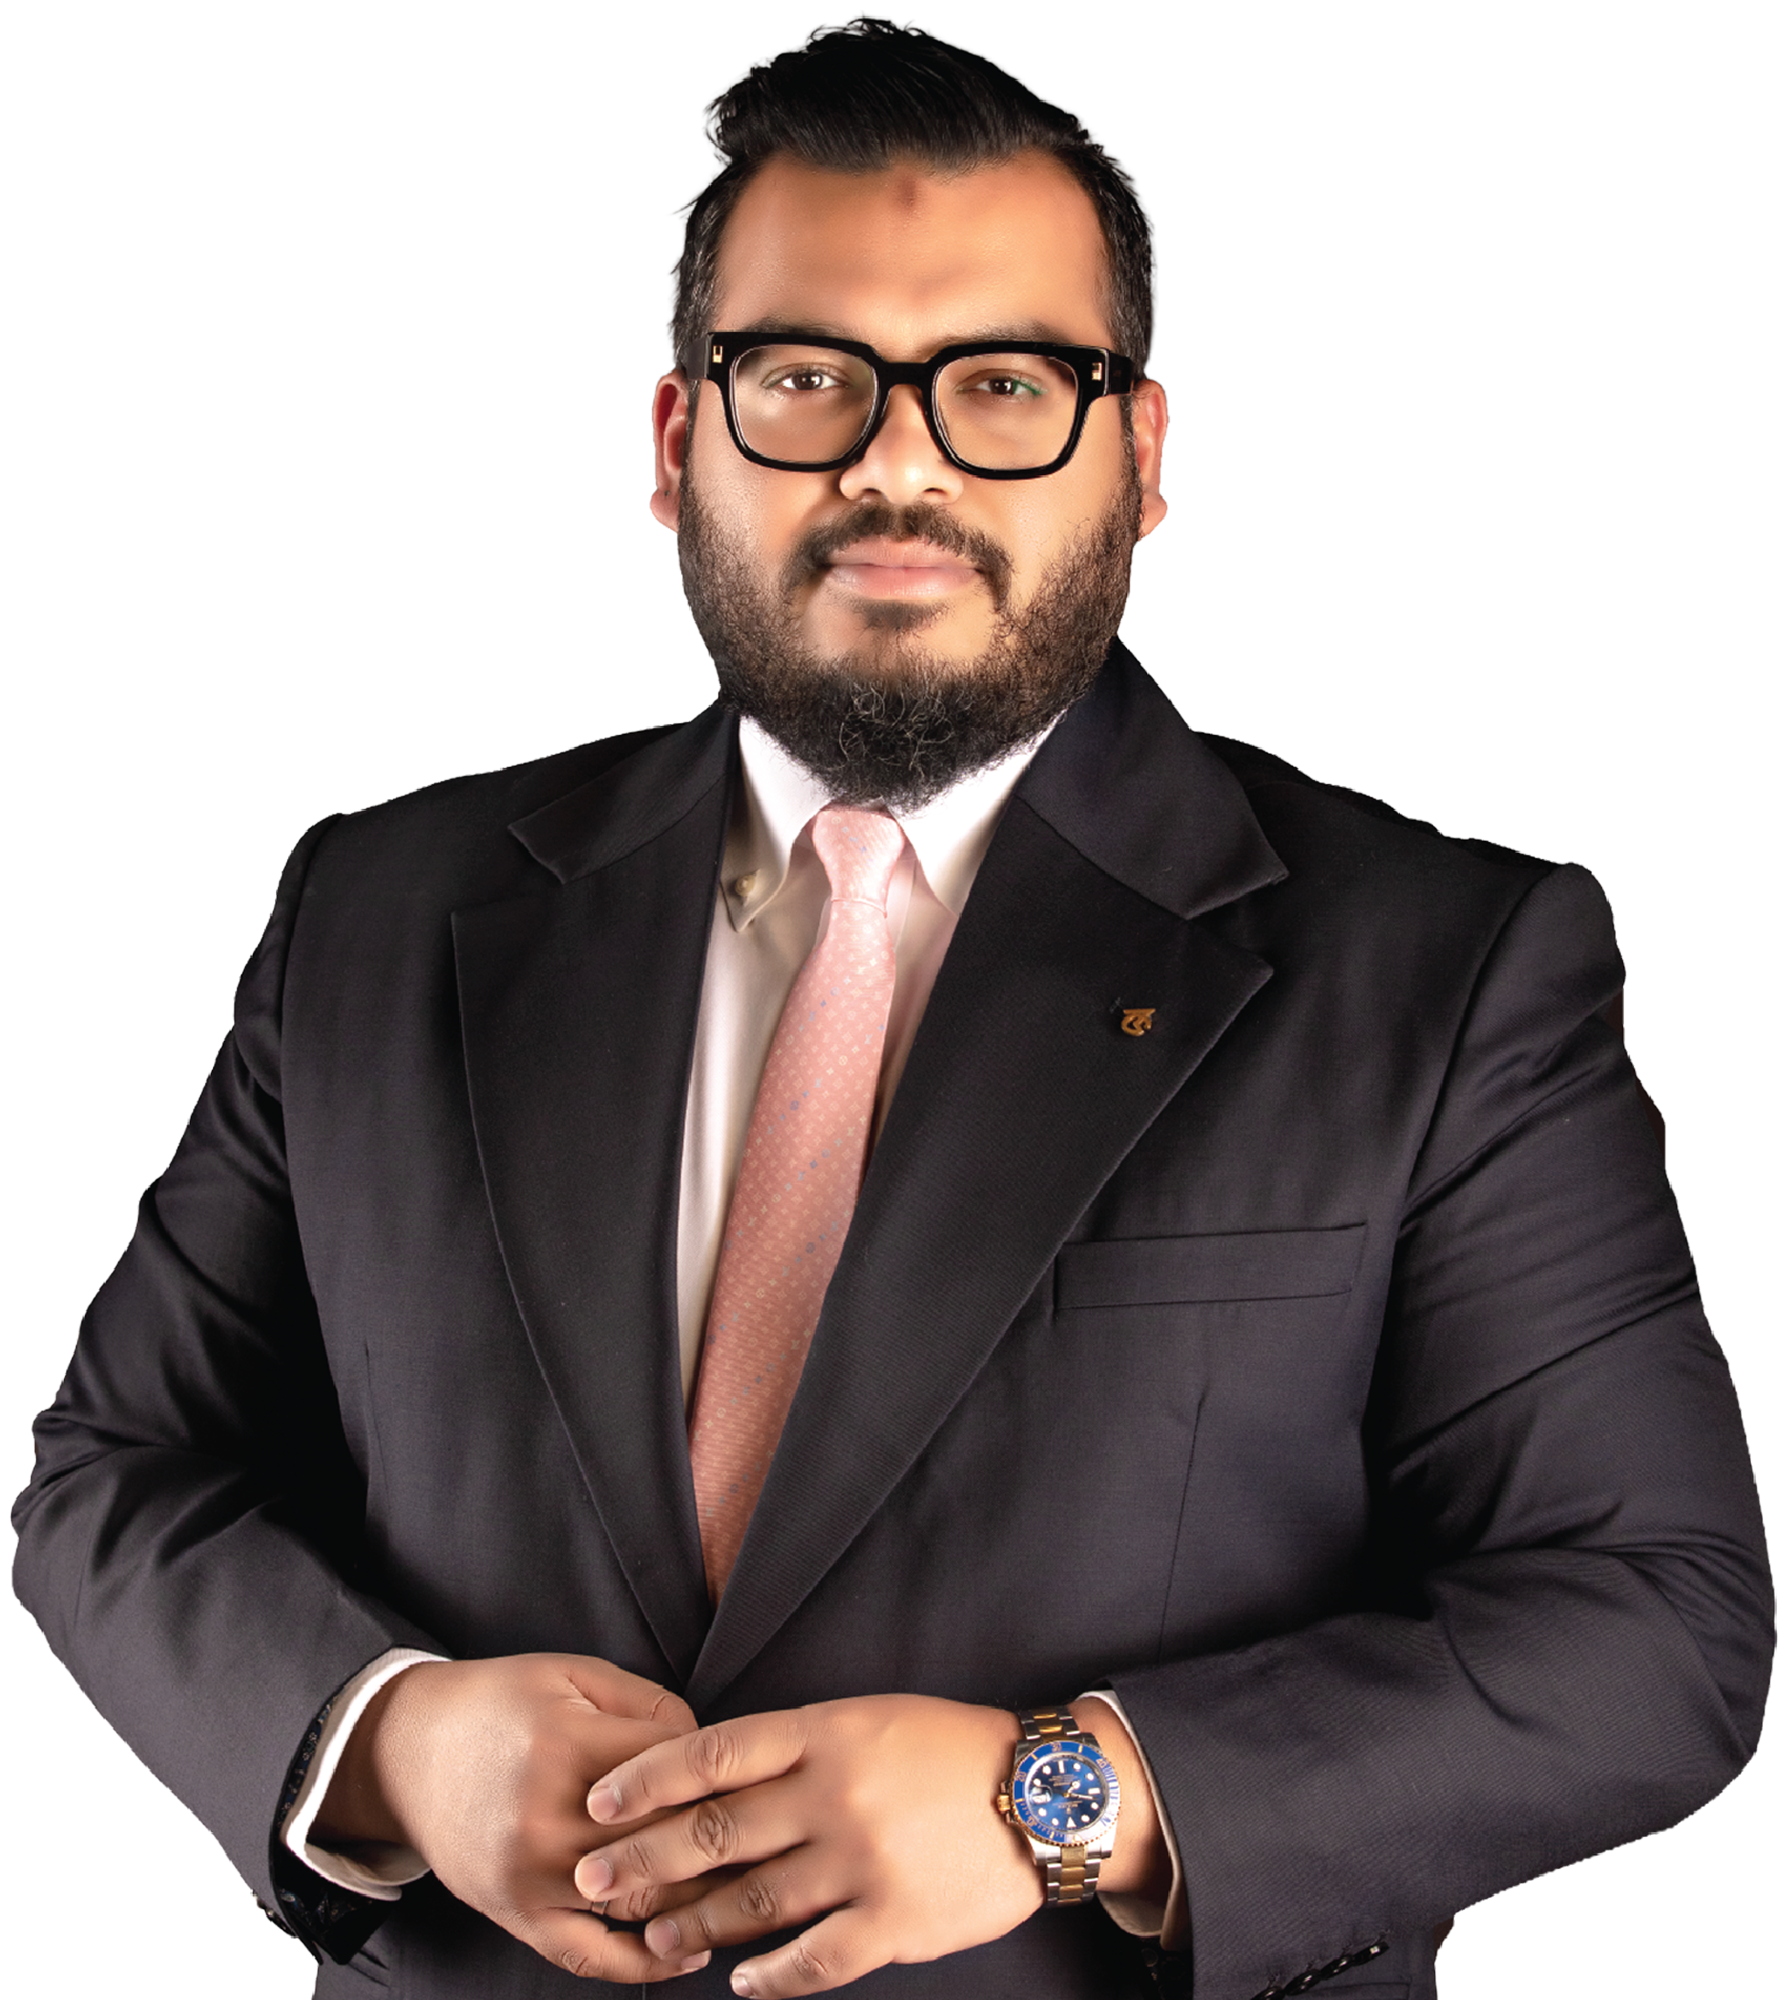
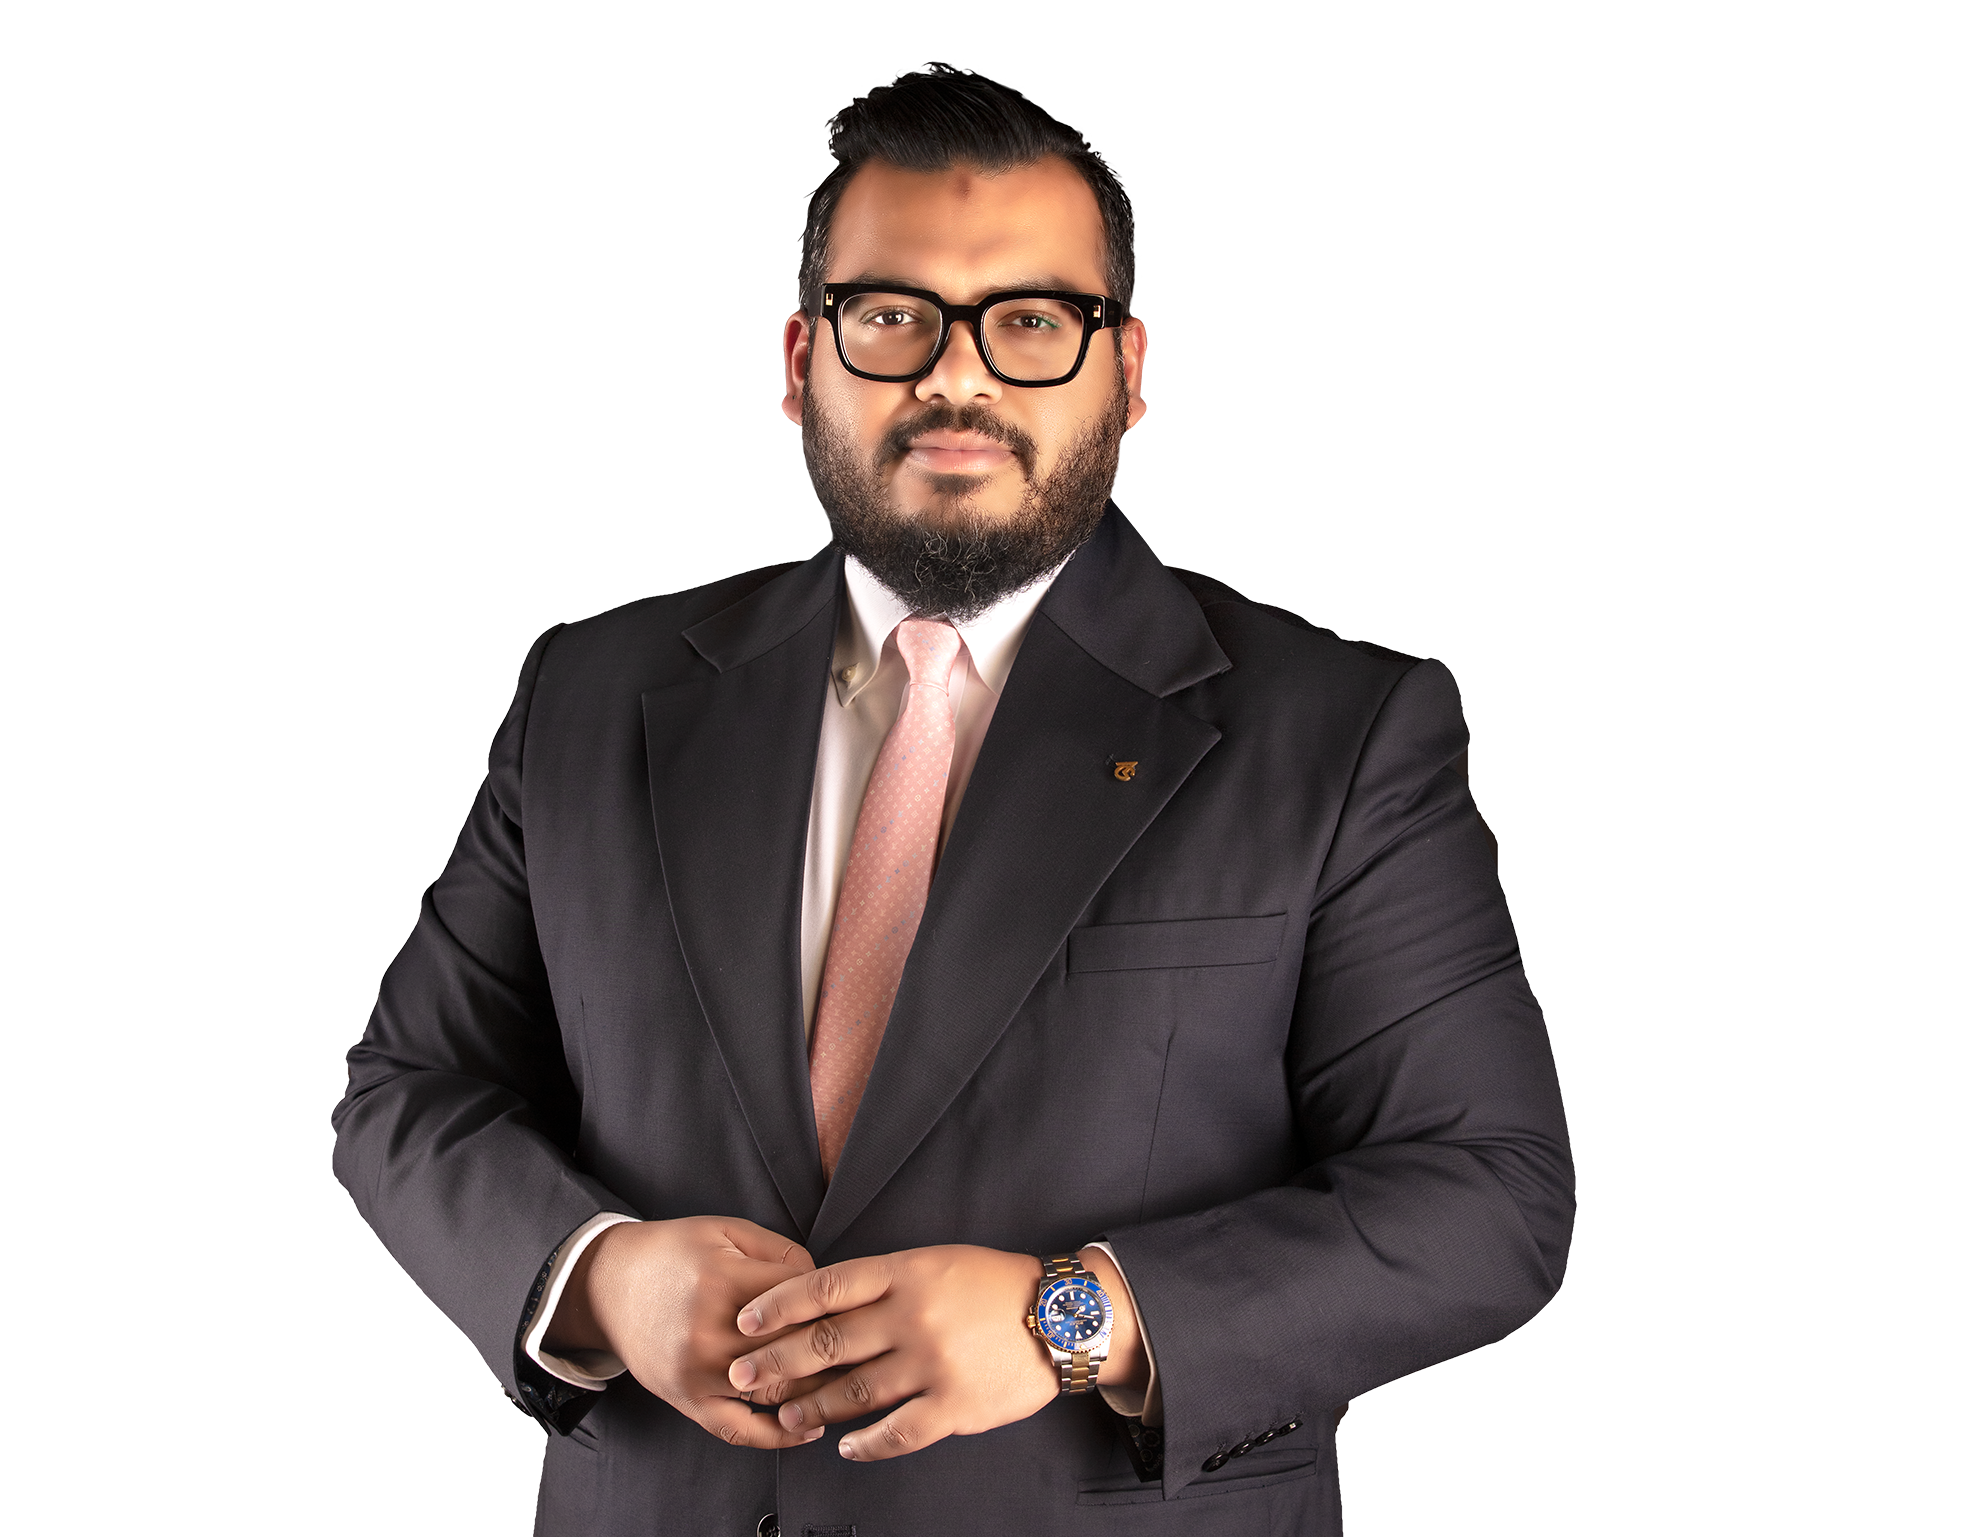
fix(board): replace board of directors images with PNG formats
- Updated chairman, managing director, and other directors' portraits to use PNG instead of WebP
- Revised background and mobile images to match new PNG format replacements
- Updated board roster and media galleries components to reference new PNG image paths
- Corrected office address in contact data
- Commented out date and category meta display in newsroom component for cleaner UI rendering

diff --git a/components/board/boardRoster.ts b/components/board/boardRoster.ts
@@ -27,43 +27,43 @@ export const boardRoster: BoardRosterMember[] = [
     slug: "chairman",
     name: "Mohammad Helal Miah",
     role: "Chairman",
-    image: "/images/board-of-directors/chairman-mobile.png",
+    image: "/images/board-of-directors/chairman.png",
   },
   {
     slug: "managing-director",
     name: "Rezaul Karim",
     role: "Director",
-    image: "/images/board-of-directors/managing-director.webp",
+    image: "/images/board-of-directors/director.png",
   },
   {
     slug: "rezawan-kabir-shihab",
     name: "Rezawan Kabir Shihab",
     role: "Director",
-    image: "/images/board-of-directors/rezawan-kabir-shihab.webp",
+    image: "/images/board-of-directors/rezawan-kabir-shihab.png",
   },
   {
     slug: "md-jubayer-amin",
     name: "Md. Jubayer Amin",
     role: "Director",
-    image: "/images/board-of-directors/md-jubayer-amin.webp",
+    image: "/images/board-of-directors/md-jubayer-amin.png",
   },
   {
     slug: "akm-azad",
     name: "Akm Azad",
     role: "Entrepreneur",
-    image: "/images/board-of-directors/akm-azad.webp",
+    image: "/images/board-of-directors/akm-azad.png",
   },
   {
     slug: "mahamudul-hasan",
     name: "Mahamudul Hasan",
     role: "Entrepreneur",
-    image: "/images/board-of-directors/mahamudul-hasan.webp",
+    image: "/images/board-of-directors/mahamudul-hasan.png",
   },
   {
     slug: "mohammad-kamrul-islam",
     name: "Mohammad Kamrul Islam",
     role: "Entrepreneur",
-    image: "/images/board-of-directors/mohammad-kamrul-islam.webp",
+    image: "/images/board-of-directors/mohammad-kamrul-islam.png",
   },
 ];
 

diff --git a/components/media-galleries/mediaGalleriesData.ts b/components/media-galleries/mediaGalleriesData.ts
@@ -109,37 +109,37 @@ export const logoCards: LogoCard[] = [
 
 export const directorCards: DirectorCard[] = [
   {
-    image: "/images/board-of-directors/chairman.webp",
+    image: "/images/board-of-directors/chairman.png",
     name: "Mohammad Helal Miah",
     title: "Chairman",
   },
   {
-    image: "/images/board-of-directors/managing-director.webp",
+    image: "/images/board-of-directors/director.png",
     name: "Rezaul Karim",
     title: "Director",
   },
   {
-    image: "/images/board-of-directors/rezawan-kabir-shihab.webp",
+    image: "/images/board-of-directors/rezawan-kabir-shihab.png",
     name: "Rezawan Kabir Shihab",
     title: "Director",
   },
   {
-    image: "/images/board-of-directors/md-jubayer-amin.webp",
+    image: "/images/board-of-directors/md-jubayer-amin.png",
     name: "Md. Jubayer Amin",
     title: "Director",
   },
   {
-    image: "/images/board-of-directors/akm-azad.webp",
+    image: "/images/board-of-directors/akm-azad.png",
     name: "Akm Azad",
     title: "Entrepreneur",
   },
   {
-    image: "/images/board-of-directors/mahamudul-hasan.webp",
+    image: "/images/board-of-directors/mahamudul-hasan.png",
     name: "Mahamudul Hasan",
     title: "Entrepreneur",
   },
   {
-    image: "/images/board-of-directors/mohammad-kamrul-islam.webp",
+    image: "/images/board-of-directors/mohammad-kamrul-islam.png",
     name: "Mohammad Kamrul Islam",
     title: "Entrepreneur",
   },

diff --git a/components/homepage/Newsroom.tsx b/components/homepage/Newsroom.tsx
@@ -226,7 +226,7 @@ export default function Newsroom() {
 
                 <div className="flex flex-col gap-2 sm:gap-1">
                   {/* Meta — date / category */}
-                  <div className="flex items-center gap-2 mt-1">
+                  {/* <div className="flex items-center gap-2 mt-1">
                     <span className="font-neue-montreal text-sm lg:text-base text-neutral-600">
                       {item.date}
                     </span>
@@ -237,7 +237,7 @@ export default function Newsroom() {
                     <span className="font-neue-montreal text-sm lg:text-base text-neutral-600">
                       {item.category}
                     </span>
-                  </div>
+                  </div> */}
 
                   {/* Title */}
                   <h3 className="max-w-full lg:max-w-[90%] font-archivo-black text-xl sm:text-2xl lg:text-3xl leading-6 sm:leading-8 text-neutral-800">

diff --git a/app/board-of-directors/page.tsx b/app/board-of-directors/page.tsx
@@ -36,7 +36,7 @@ export default function BoardOfDirectorsPage() {
         href="/board-of-directors/chairman"
         mobileBgImage="/images/board-of-directors/chairman-mobile-bg.png"
         image={{
-          src: "/images/board-of-directors/chairman sir 2026.png",
+          src: "/images/board-of-directors/chairman.png",
           width: 530,
           height: 530,
         }}
@@ -53,7 +53,7 @@ export default function BoardOfDirectorsPage() {
         bgImage="/images/board-of-directors/director-bg.png"
         mobileBgImage="/images/board-of-directors/director-mobile-bg.png"
         image={{
-          src: "/images/board-of-directors/director.webp",
+          src: "/images/board-of-directors/director.png",
           width: 530,
           height: 530,
         }}

diff --git a/components/contact-us/contactData.ts b/components/contact-us/contactData.ts
@@ -233,7 +233,7 @@ export const locationCards: Record<LocationTab, OfficeCardData[]> = {
       title: "Amanat Shah Weaving Processing Ltd",
       image: OFFICE_IMG,
       address:
-        "Bhatpara, Maijdee Road 1603, Pachdona,\nNarshingdi, Bangladesh",
+        "136, Bilashdi, Pachdona,\nNarshingdi, Bangladesh",
       phones: ["+(88)01321118231"],
       email: "",
       coordinates: { lat: 23.92675, lng: 90.712528 },

diff --git a/app/board-of-directors/mohammad-kamrul-islam/page.tsx b/app/board-of-directors/mohammad-kamrul-islam/page.tsx
@@ -29,7 +29,7 @@ export default function MohammadKamrulIslamPage() {
         role="Entrepreneur"
         org="AMANAT SHAH GROUP"
         portrait={{
-          src: "/images/board-of-directors/mohammad-kamrul-islam.webp",
+          src: "/images/board-of-directors/mohammad-kamrul-islam.png",
           width: 7236,
           height: 9771,
         }}

diff --git a/app/board-of-directors/rezawan-kabir-shihab/page.tsx b/app/board-of-directors/rezawan-kabir-shihab/page.tsx
@@ -27,7 +27,7 @@ export default function RezawanKabirShihabPage() {
         role="Director"
         org="AMANAT SHAH GROUP"
         portrait={{
-          src: "/images/board-of-directors/rezawan-kabir-shihab.webp",
+          src: "/images/board-of-directors/rezawan-kabir-shihab.png",
           width: 7236,
           height: 9848,
         }}

diff --git a/app/board-of-directors/managing-director/page.tsx b/app/board-of-directors/managing-director/page.tsx
@@ -33,7 +33,7 @@ export default function ManagingDirectorMessagePage() {
         role="Managing Director"
         org="AMANAT SHAH GROUP"
         portrait={{
-          src: "/images/board-of-directors/managing-director.webp",
+          src: "/images/board-of-directors/director.png",
           width: 1956,
           height: 2200,
         }}

diff --git a/app/board-of-directors/md-jubayer-amin/page.tsx b/app/board-of-directors/md-jubayer-amin/page.tsx
@@ -27,7 +27,7 @@ export default function MdJubayerAminPage() {
         role="Director (Miah)"
         org="AMANAT SHAH GROUP"
         portrait={{
-          src: "/images/board-of-directors/md-jubayer-amin.webp",
+          src: "/images/board-of-directors/md-jubayer-amin.png",
           width: 7236,
           height: 9848,
         }}

diff --git a/app/board-of-directors/mahamudul-hasan/page.tsx b/app/board-of-directors/mahamudul-hasan/page.tsx
@@ -29,7 +29,7 @@ export default function MahamudulHasanPage() {
         role="Entrepreneur"
         org="AMANAT SHAH GROUP"
         portrait={{
-          src: "/images/board-of-directors/mahamudul-hasan.webp",
+          src: "/images/board-of-directors/mahamudul-hasan.png",
           width: 7236,
           height: 9771,
         }}

diff --git a/app/board-of-directors/akm-azad/page.tsx b/app/board-of-directors/akm-azad/page.tsx
@@ -29,7 +29,7 @@ export default function AkmAzadPage() {
         role="Entrepreneur"
         org="AMANAT SHAH GROUP"
         portrait={{
-          src: "/images/board-of-directors/akm-azad.webp",
+          src: "/images/board-of-directors/akm-azad.png",
           width: 7236,
           height: 9848,
         }}
